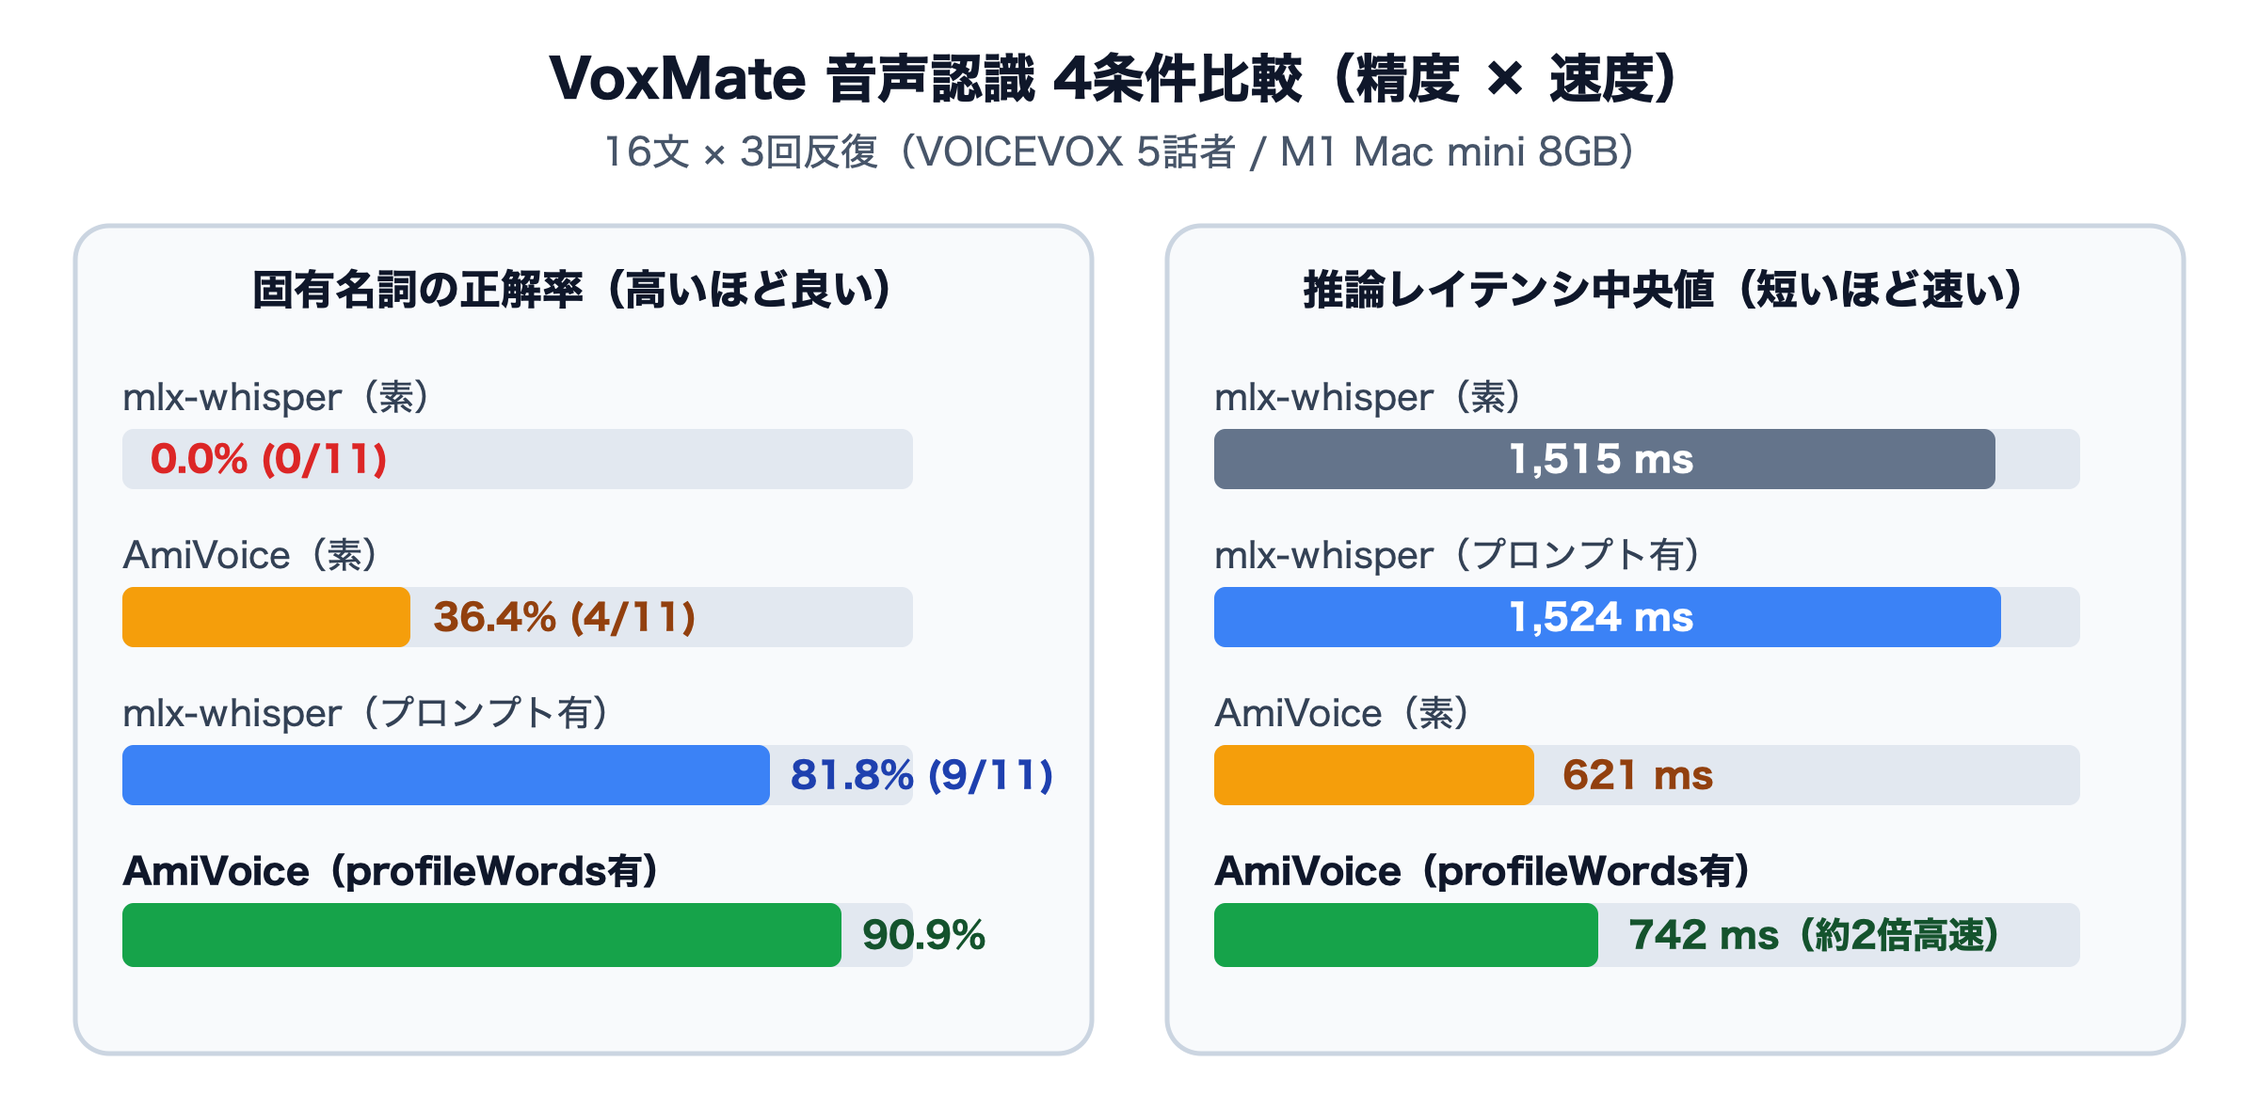
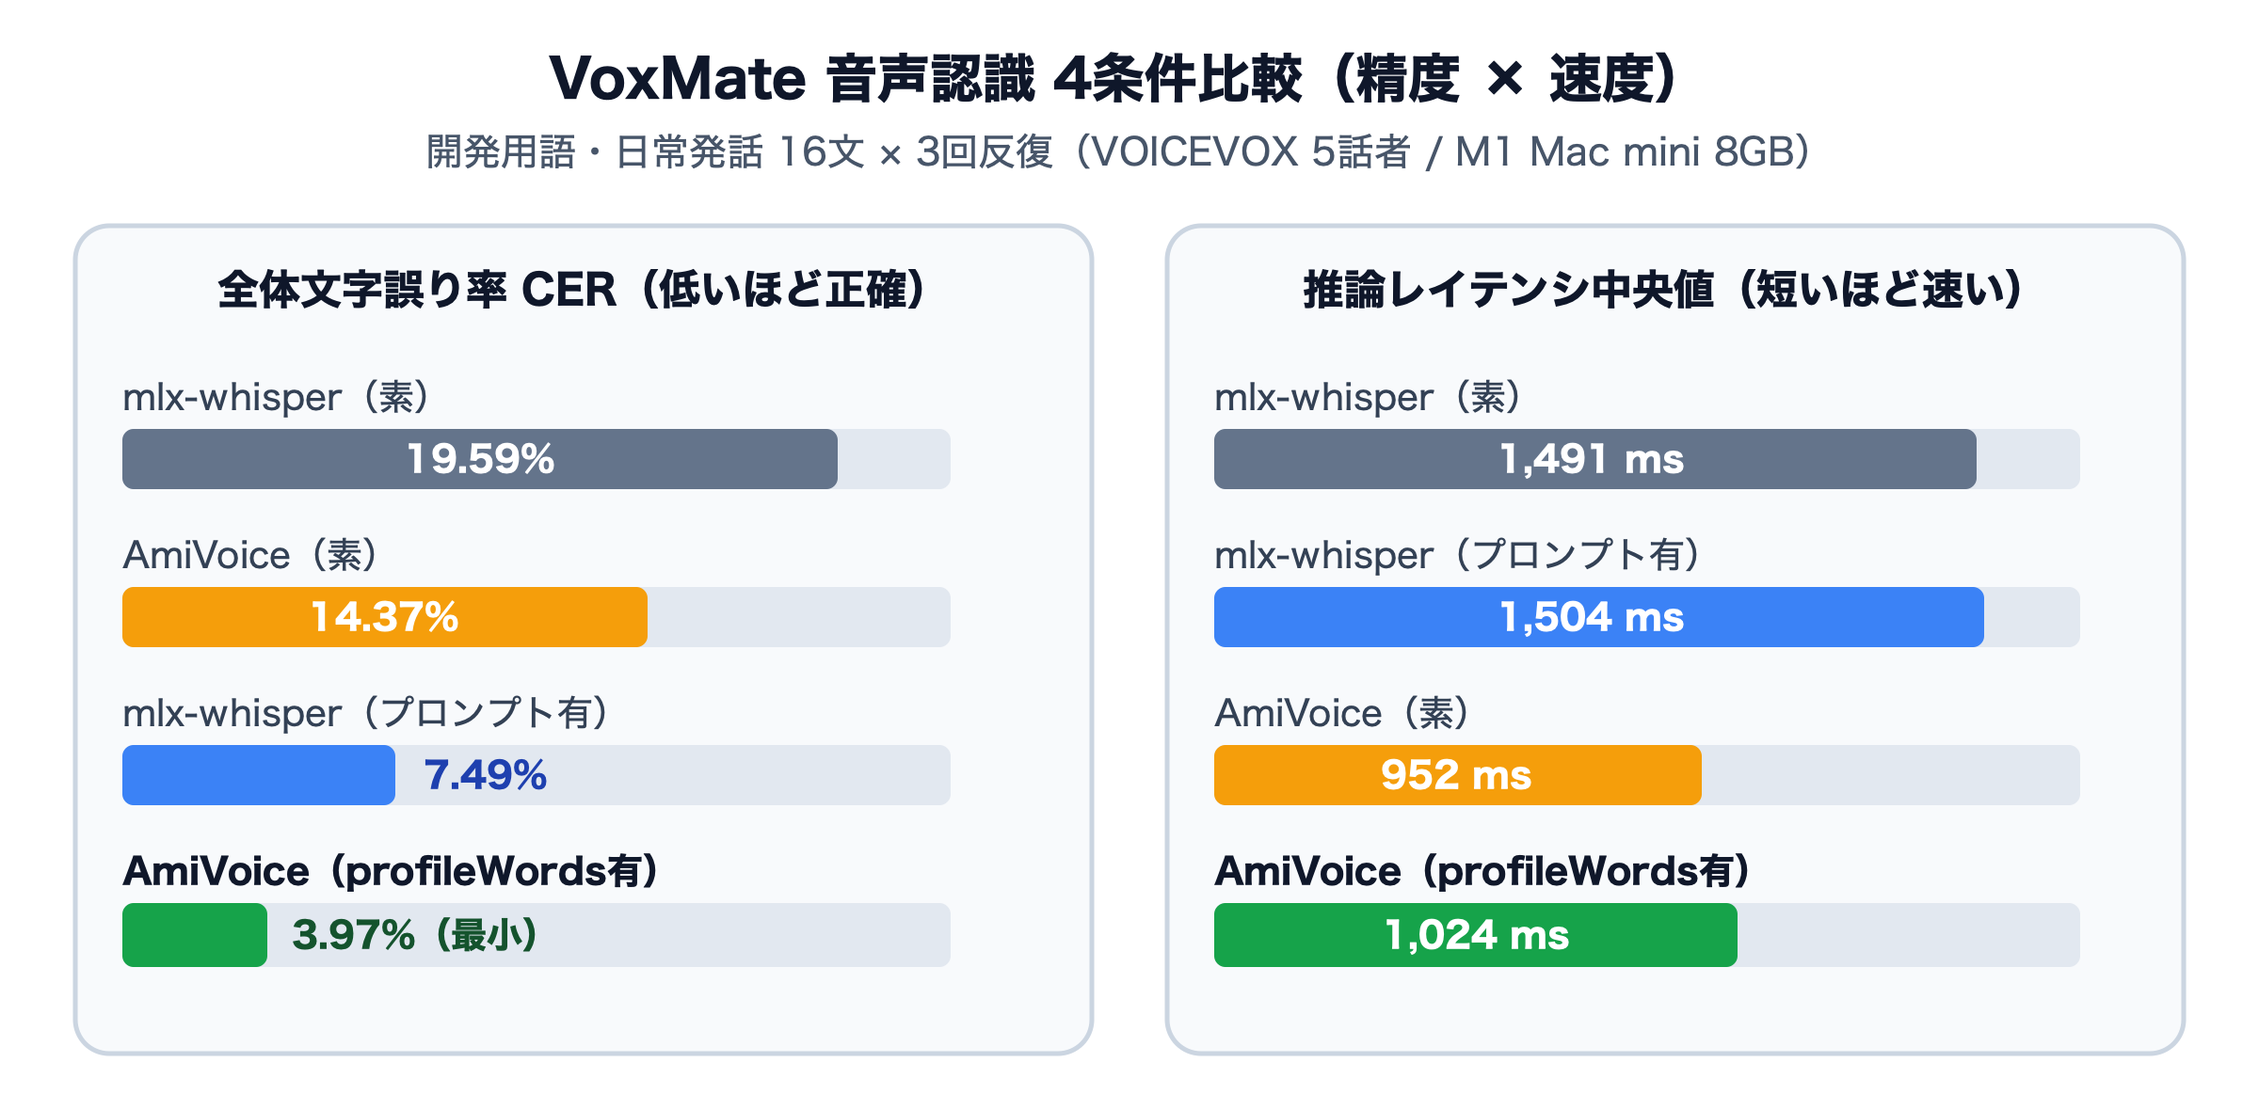
📝 docs(article): rewrite with developer corpus and subtractive humor

diff --git a/articles/voxmate-amivoice-stt-benchmark.md b/articles/voxmate-amivoice-stt-benchmark.md
@@ -6,32 +6,24 @@ topics: ["amivoice", "whisper", "voicevox", "python", "ai"]
 published: false
 ---
 
-前回の記事で、Echo Show 5（第1世代）をカスタム ROM 化して自作 AI 音声アシスタント（[VoxMate](https://github.com/Naruto-Takahashi/voxmate)）に改造しました。
+```text
+user: 明日の朝くじに起こして。
+assistant: 抽選時刻が不明なため、何時にアラームを設定するか教えてください。
+```
+
+私が言ったのは「**明日の朝9時に起こして**」だった。
+
+前回の記事で Echo Show 5（第1世代）をカスタム ROM 化し、自宅の Mac mini で動く自作音声アシスタント [VoxMate](https://github.com/Naruto-Takahashi/voxmate) を作りました。
 
 https://zenn.dev/nalt/articles/echo-show-5-voxmate-assistant
 
-ただ、実際にデスクで毎日話しかけていると、ローカルの Whisper（M1 Mac mini 上の `mlx-whisper` / `large-v3-turbo-q4`）が**固有名詞をことごとく別物に書き換えてくる**という弱点が見えてきました。
+ところが実際に使い始めると、バックエンドの LLM がどれだけ賢くても、手前の文字起こし（ローカルの `mlx-whisper`）が開発用語や時刻を別の言葉に書き換えてしまい、**LLM に意図と違う文字列が渡る** 場面が頻発しました。しかも M1 Mac mini 8GB では文字起こしだけで毎回 **約 1.5 秒** 待たされます。
 
-- 「LineageOS のブラウザを開いて」→「**リニッチOS**のブラウザを開いて」（もう何の OS なのか分からない）
-- 「VoxMate のモデルを変えて」→「**ボックスメリット**のモデルを変えて」（急に健康食品の定期便みたいな名前になる）
-- 「東北イタコにキャラを切り替えて」→「**東北板子**にキャラを切り替えて」（実在しそうな一般人の苗字に改名）
-
-しかも M1 Mac mini 8GB では、文字起こしだけで毎回 **約 1.5 秒** かかります。
-
-そこで今回は、**AmiVoice API** の同期 HTTP インタフェースと単語登録機能（`profileWords`）を VoxMate に組み込み、**ローカル Whisper と 4 条件でガチ比較** してみました。この記事を読むと、**Python から AmiVoice API の `profileWords` を正しく叩く実装** と、**固有名詞の誤認識と応答速度を同時に改善する勘所** が分かります。
-
-:::message
-**検証の結論（30秒で把握）**
-- **速度**：M1 Mac mini の `mlx-whisper`（中央値 `1,515 ms`）に対し、AmiVoice API は **約 2 倍高速**（`621〜742 ms`）だった。
-- **精度**：素のままだと AmiVoice も「WhiteCUL → **ホワイトカラー**」「LineageOS → **離日OS**」とボケるが、`profileWords` を正しく渡した瞬間に **固有名詞正解率 90.9%**（全体 CER 2.88%）で全 4 条件のトップに立った。
-- **最大の落とし穴**：`profileWords` は `表記 読み|表記 読み` を **URL エンコード** しないと静かに無視される。
-:::
+そこで **AmiVoice API** の同期 HTTP インタフェースと単語登録（`profileWords`）を VoxMate に組み込み、ローカル Whisper と 4 条件・16 文で比較しました。この記事を読むと、**Python から AmiVoice API の `profileWords` を正しく渡す実装** と、**実測データに基づくローカル STT とクラウド STT の使い分け** が分かります。
 
 ## VoxMate に `VOXMATE_STT=amivoice` を組み込む
 
-VoxMate はすでに `ffmpeg` で入力音声を 16kHz モノラル WAV に正規化しているため、AmiVoice API の同期 HTTP エンドポイント（`https://acp-api.amivoice.com/v1/nolog/recognize`）を差し込むだけで完結します。
-
-実際のクライアント実装は [stt_amivoice.py](https://github.com/Naruto-Takahashi/voxmate/blob/main/stt_amivoice.py) に切り出しました。
+VoxMate は入力音声を `ffmpeg` で 16kHz モノラル WAV に正規化してから認識器へ渡しているため、同期 HTTP エンドポイント（`https://acp-api.amivoice.com/v1/nolog/recognize`）へのクライアントを 1 ファイル足すだけで切り替えられます。
 
 ```python:stt_amivoice.py
 from pathlib import Path
@@ -44,7 +36,7 @@ def build_amivoice_d_param(engine: str = "-a-general", profile_words: str = "") 
     parts = [f"grammarFileNames={engine.strip() or '-a-general'}"]
     words = profile_words.strip()
     if words:
-        # スペースや | を含むため URL エンコードが必須
+        # d パラメータは半角スペース区切りのため、profileWords 全体は URL エンコードする
         parts.append(f"profileWords={quote(words, safe='')}")
     return " ".join(parts)
 
@@ -66,65 +58,120 @@ def transcribe_wav_amivoice(wav_path: Path, app_key: str, profile_words: str = "
         return str(payload.get("text") or "").strip()
 ```
 
-`.env` に API キーと単語リストを書くだけで切り替えられます。
+`.env` に API キーと登録したい語彙を並べるだけで有効化できます。
 
 ```bash:.env
 VOXMATE_STT=amivoice
 AMIVOICE_APP_KEY=your_api_key_here
 AMIVOICE_ENGINE=-a-general
-AMIVOICE_PROFILE_WORDS=ずんだもん ずんだもん|四国めたん しこくめたん|SwitchBot すいっちぼっと|VoxMate ぼっくすめいと
+AMIVOICE_PROFILE_WORDS=プルリク ぷるりく|Claude くろーど|Nix にっくす|GitHub ぎっとはぶ|Issue いしゅー
 ```
 
-### 自分が真っ先にハマった 2 つの罠
+### 実装時に踏んだ 2 つの罠
 
-実装してベンチマークを回す過程で、初見殺しポイントを 2 つ踏みました。
+1. **`profileWords` の書式違いはエラーにならず無視される**
+   最初は `表記|読み` を半角スペースで並べてしまい、エラーも出ないまま素の認識結果が返り続けました。公式仕様は「**表記（半角スペース）ひらがな読み**」を `|` で繋ぎ、さらに `d=` へ渡す前に URL エンコードする形式です。
+2. **アカウント登録直後の認証エラー**
+   ACP マイページでクーポンを適用し、カード登録を終えた直後に叩くと `received illegal service authorization` になりました。マイページの注意書きにある「使用可能になるまで 10 分程度」を待ってから再試行すると通りました。
 
-1. **`profileWords` の書式ミスはエラーにならず静かに無視される**
-   最初、うっかり `ずんだもん|ズンダモン SwitchBot|スイッチボット` のように書いてしまったところ、エラーも出ず素の認識と全く同じ結果になりました。公式仕様は **「表記（半角スペース）ひらがな読み」を `|` で連結し、`d=` 内では URL エンコードする** のが正解です。
-2. **アカウント登録直後の `received illegal service authorization`**
-   ACP マイページでクーポンを適用し、クレジットカード登録を済ませた直後に叩いたら認証エラーになりました。ダッシュボードにも「登録完了時には使用可能になるまで 10 分程度かかります」と明記されており、少し待ってから再実行したら一発で通りました。
+## 空耳コレクション（実測ログから抜粋）
 
-## 4 条件 × 16 文 × 3 回反復のガチ比較実験
+開発の日常語・ツール名・コマンド・一般会話を含む 16 文を VOICEVOX の複数話者（男女 5 名）で生成し、各エンジンへ通した実測結果から、挙動の差が出たケースを影響度の低い順に並べます。
 
-「たまたま 1 文だけ上手くいった」では意味がないため、条件を揃えて実験しました。
+### ケース 01：Claude
 
-- **コーパス**（計 16 文）：固有名詞コマンド 10 文（ずんだもん / 四国めたん / 春日部つむぎ / 東北イタコ / WhiteCUL / SwitchBot / VoxMate / Tailscale / LineageOS）＋ 一般的な日常・予定・タイマー発話 6 文
-- **話者**：VOICEVOX の複数話者（男女 5 名）で音声を生成して 16kHz WAV 化
-- **比較条件**：
-  1. `mlx-whisper`（素：デフォルトの `initial_prompt`）
-  2. `mlx-whisper`（プロンプト有：`initial_prompt` に固有名詞リストを注入）
-  3. `AmiVoice API`（素：`-a-general`、`profileWords` なし）
-  4. `AmiVoice API`（`profileWords` 有：9 語を登録）
-- **計測**：初回ウォームアップ除外後、各条件 3 回ずつ反復して **CER**（文字誤り率）・**固有名詞正解率**・**レイテンシ中央値** を算出
+> 発話：「Claudeに聞いてみて」
+
+| 条件 | 認識結果（そのまま LLM へ渡る文字列） |
+| :--- | :--- |
+| `mlx-whisper`（素） | `グロードに聞いてみて。` |
+| `mlx-whisper`（プロンプト有） | `Grodeに聞いてみて。` |
+| `AmiVoice`（素） | `Claudeに聞いてみて` |
+| `AmiVoice`（`profileWords` 有） | `Claudeに聞いてみて` |
+
+Whisper は `initial_prompt` に `Claude` を含めても `Grode` に寄せたのに対し、AmiVoice は素の `-a-general` の時点で正しく `Claude` を返しました。
+
+### ケース 02：Issue
+
+> 発話：「GitHubのIssueを見せて」
+
+| 条件 | 認識結果（そのまま LLM へ渡る文字列） |
+| :--- | :--- |
+| `mlx-whisper`（素） | `GitHubの一種を見せて、` |
+| `mlx-whisper`（プロンプト有） | `GitHubのIssueを見せて` |
+| `AmiVoice`（素） | `GitHubのイシューを見せて` |
+| `AmiVoice`（`profileWords` 有） | `GitHubのIssueを見せて` |
+
+`GitHubの一種` が LLM に渡ると、検索クエリとして成立しなくなります。
+
+### ケース 03：プルリク・リバート
+
+> 発話：「プルリクをマージして」「直前のコミットをリバートして」
+
+| 条件 | プルリク（発話：プルリクをマージして） | リバート（発話：直前のコミットをリバートして） |
+| :--- | :--- | :--- |
+| `mlx-whisper`（素） | `ブルリクをマージして。` | `直前のコミットをリバートして、` |
+| `AmiVoice`（素） | `ぷるリップをマージして、` | `直前のコミットをリバーとして、` |
+| `AmiVoice`（`profileWords` 有） | `プルリクをマージして` | `直前のコミットをリバートして、` |
+
+`ぷるリップ` でも `リバーとして` でも、辞書にない語が近い音の日本語へ引き寄せられています。
+
+### ケース 04：朝の目覚まし（一般会話のつもりだった文）
+
+> 発話：「明日の朝9時に起こして」
+
+| 条件 | 認識結果（そのまま LLM へ渡る文字列） |
+| :--- | :--- |
+| `mlx-whisper`（素） | `明日の朝くじに起こして。` |
+| `mlx-whisper`（プロンプト有） | `明日の朝くじに起こして。` |
+| `AmiVoice`（素） | `明日の朝9時に起こして` |
+| `AmiVoice`（`profileWords` 有） | `明日の朝9時に起こして` |
+
+固有名詞の検証用に用意した文ではなく、基準線として入れた普通の日本語で差が出ました。アラーム登録に「9時」ではなく「くじ」が渡ると、朝起きられなくなります。
+
+### ケース 05：Slack に返信
+
+> 発話：「Slackに返信しといて」
+
+| 条件 | 認識結果（そのまま LLM へ渡る文字列） |
+| :--- | :--- |
+| `mlx-whisper`（素） | `スラックに変身しといて。` |
+| `mlx-whisper`（プロンプト有） | `スラックに変身しといて` |
+| `AmiVoice`（素） | `Slackに返信しといて` |
+| `AmiVoice`（`profileWords` 有） | `Slackに変身しといて` |
+
+興味深いことに、`AmiVoice`（素）は文脈から `Slackに返信しといて` と正しく変換できましたが、他の 3 条件では `変身` に引っ張られました。
+
+### 全条件で正解だった文（対照）
+
+もちろん、すべてがボケるわけではありません。「本番にデプロイして」「新しいブランチを切って」「古いテーブルをドロップして」「CIが落ちてる」「今日の天気は？」の 5 文は、4 条件すべてで意味が通る正しい文字列を返しました。
+
+## 誰も悪くない。ただ辞書がなかっただけ
+
+エンジン側は音響特徴からもっともらしい音素列を出しただけで、辞書に載っていない単語を聞き間違えるのは自然な挙動です。`profileWords` はその場でドメイン辞書を 1 行差し込めるため、モデルを再学習することなく誤認識の大部分を潰せます。
+
+## 4 条件 × 16 文 × 3 回反復の定量比較
+
+全 16 文を各条件 3 回ずつ実行（初回ウォームアップ除外）し、句読点・空白を除いた文字誤り率（CER）、対象キーワード正解率、推論レイテンシ中央値をまとめました。
 
 ![VoxMate 音声認識 4条件比較（精度 × 速度）](/images/voxmate-amivoice-stt-benchmark/stt-benchmark.png)
 
-| 比較条件 | 全体 CER | 固有名詞文 CER | 一般文 CER | 固有名詞 正解率 | レイテンシ中央値 |
+| 比較条件 | 全体 CER | 対象文 CER | 一般文 CER | キーワード正解率 | レイテンシ中央値 |
 | :--- | :---: | :---: | :---: | :---: | :---: |
-| `mlx-whisper`（素） | 21.78% | 34.86% | **0.00%** | 0.0% (0/11) | 1,514.9 ms |
-| `mlx-whisper`（プロンプト有） | 3.57% | 5.71% | **0.00%** | 81.8% (9/11) | 1,524.0 ms |
-| `AmiVoice`（素） | 16.56% | 25.78% | 1.19% | 36.4% (4/11) | **620.8 ms** |
-| `AmiVoice`（`profileWords` 有） | **2.88%** | **3.89%** | 1.19% | **90.9% (10/11)** | 742.3 ms |
+| `mlx-whisper`（素） | 19.59% | 21.09% | 9.09% | 58.3% (14/24) | 1,490.7 ms |
+| `mlx-whisper`（プロンプト有） | 7.49% | 7.26% | 9.09% | **87.5%** (21/24) | 1,503.9 ms |
+| `AmiVoice`（素） | 14.37% | 16.42% | **0.00%** | 62.5% (15/24) | **952.3 ms** |
+| `AmiVoice`（`profileWords` 有） | **3.97%** | **4.54%** | **0.00%** | **87.5%** (21/24) | 1,023.5 ms |
 
-## 空耳コレクションから見えた面白さと限界
-
-実際の出力ログを並べてみると、各エンジンの癖がよく分かります。
-
-- **素の AmiVoice が生み出した名作誤認識**:
-  - 「**WhiteCUL**の声で返事をして」→「**ホワイトカラーの声で返事をして**」（急にサラリーマン）
-  - 「**LineageOS**のブラウザを開いて」→「**離日OSのブラウザを開いて**」（日本から出国する OS 爆誕）
-- **`profileWords` を入れた瞬間の逆転劇**:
-  - 上記の「ホワイトカラー」も「ボックスメリット（VoxMate）」も「すんだもん」も、`profileWords` を正しく渡した瞬間に **「WhiteCUL」「VoxMate」「ずんだもん」** へ一発で矯正されました。
-  - ローカル Whisper にプロンプトを盛った条件（81.8%）すら上回り、**全体 CER 2.88%・正解率 90.9%** を出しつつ、応答時間は **742.3 ms（Whisper の約半分）** に収まっています。
-- **唯一残った 1 問と今後の限界**:
-  - 唯一「LineageOS」だけは、`profileWords` に `りにえーじおーえす` と登録したものの VOICEVOX の発音が「りにーじ」寄りだったため `離日OS` のまま残りました。読みの揺れに合わせた複数パターン登録が効きそうです。
-  - また本実験は VOICEVOX 合成音声による検証であり、実環境の生活雑音・残響下やネットワーク不調時のレイテンシ変動は別途考慮が必要です。
+- **精度面**：`AmiVoice`（`profileWords` 有）が全体 CER **3.97%**、一般文 CER **0.00%** で最も安定しました。
+- **速度面**：M1 Mac mini のローカル `mlx-whisper`（約 1.5 秒）に対し、AmiVoice API は通信込みで **約 0.95〜1.02 秒** と約 1.5 倍高速でした。
+- **限界と使い分け**：本計測は VOICEVOX 合成音声による検証であり、実環境の雑音・残響下やオフライン環境では挙動が変わります。また `git push` を `きっとプッシュ` と拾うような母音・子音の揺れは、読みを複数パターン登録する工夫が有効です。
 
 ## まとめ
 
-ローカル Whisper はオフラインで動く強みがある一方、M1 Mac mini クラスでは 1.5 秒前後の待ち時間が発生します。そこに AmiVoice API の同期 HTTP インタフェースと `profileWords` を組み合わせることで、**固有名詞の誤認識を抑えつつ認識時間を半分近くに短縮** できました。
+ローカル Whisper は通信不要で無料という強みがある一方、固有名詞の誤変換や M1 環境での 1.5 秒前後の待ち時間がネックになります。AmiVoice API と `profileWords` を組み合わせることで、**文字誤り率を 19.59% から 3.97% まで下げつつ、応答テンポも短縮** できました。
 
-Echo Show 5 などの音声アシスタントを「毎日ストレスなく会話できるテンポ」に引き上げたい方は、ぜひ `VOXMATE_STT=amivoice` を試してみてください。
+Echo Show 5 などの音声アシスタントを普段使いのテンポに近づけたい場合は、`VOXMATE_STT=amivoice` での運用を試してみてください。
 
 https://github.com/Naruto-Takahashi/voxmate
 
